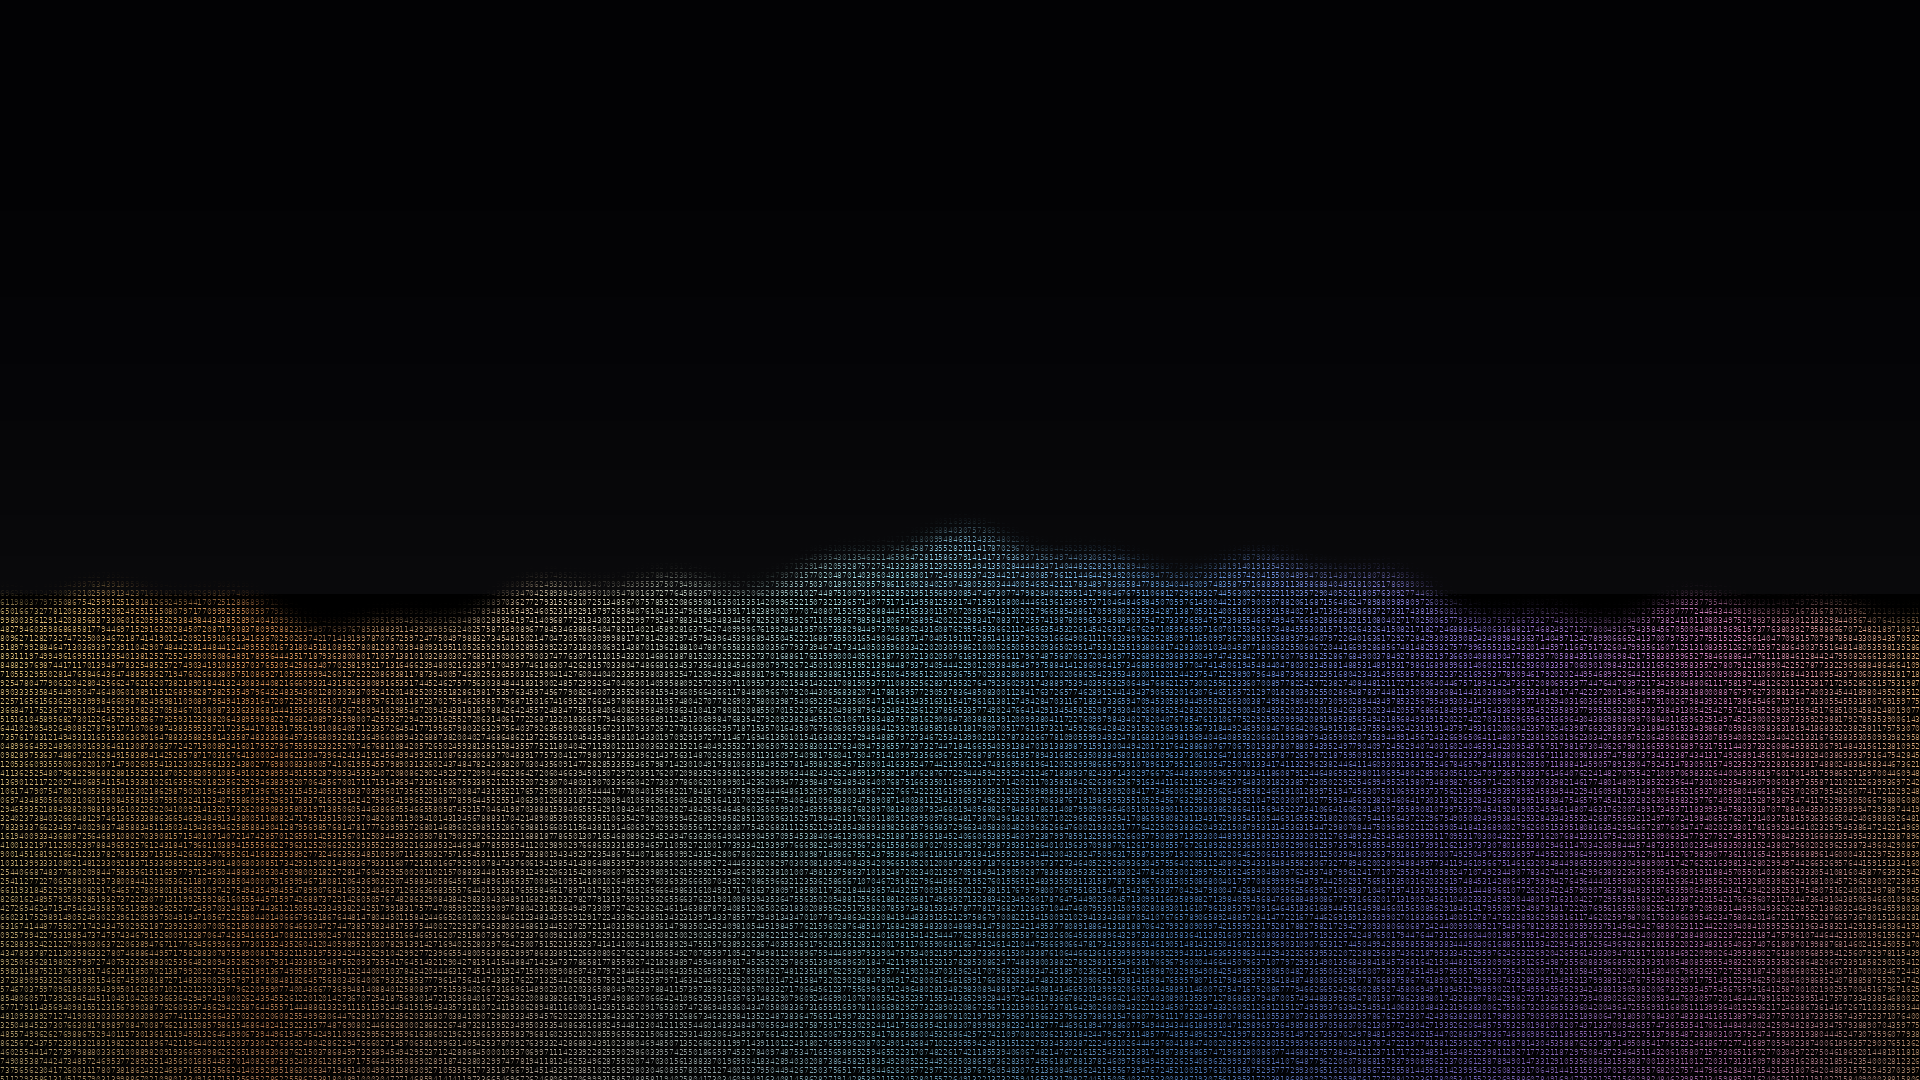
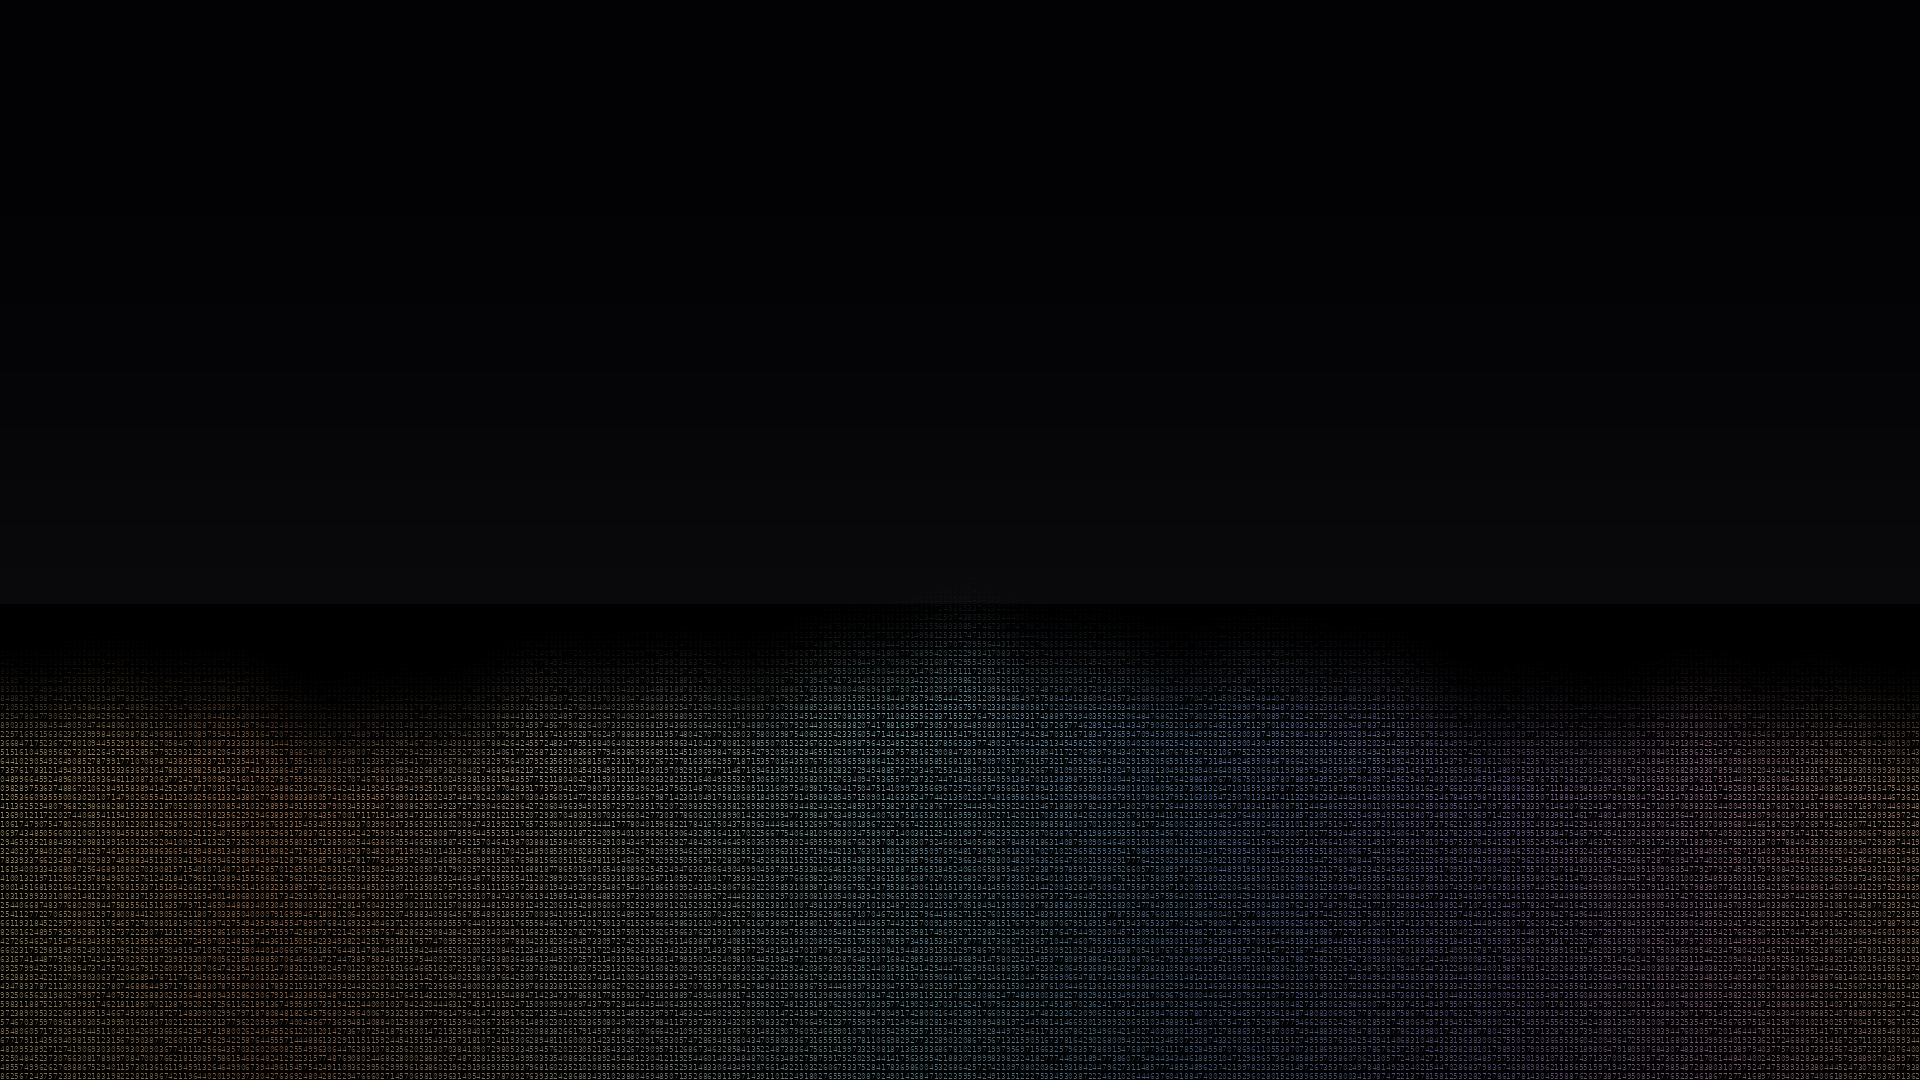
fix(theme): soften Kimi backdrop for readability
- Fade the digit field in from the wavy horizon instead of starting at full contrast.
- Reduce pattern brightness and saturation across the sidebar and results.
- Give empty states a local dark plate so copy stays readable over the backdrop.

Changed region(s): [[0.0, 0.4889, 1.0, 1.0]]

diff --git a/koyo/src/app/views/widgets.rs b/koyo/src/app/views/widgets.rs
@@ -359,23 +359,27 @@ pub(super) fn empty_state(
     detail: &'static str,
     palette: &Palette,
 ) -> impl IntoElement {
-    v_flex()
-        .flex_1()
-        .items_center()
-        .justify_center()
-        .gap_2()
-        .child(
-            gpui_kit::component::Icon::new(IconName::SquareTerminal)
-                .with_size(Size::Large)
-                .text_color(palette.muted),
-        )
-        .child(
-            div()
-                .text_sm()
-                .font_weight(FontWeight::SEMIBOLD)
-                .child(title),
-        )
-        .child(div().text_xs().text_color(palette.muted).child(detail))
+    v_flex().flex_1().items_center().justify_center().child(
+        v_flex()
+            .items_center()
+            .gap_2()
+            .px_8()
+            .py_6()
+            .rounded_lg()
+            .bg(palette.background.opacity(0.36))
+            .child(
+                gpui_kit::component::Icon::new(IconName::SquareTerminal)
+                    .with_size(Size::Large)
+                    .text_color(palette.muted),
+            )
+            .child(
+                div()
+                    .text_sm()
+                    .font_weight(FontWeight::SEMIBOLD)
+                    .child(title),
+            )
+            .child(div().text_xs().text_color(palette.muted).child(detail)),
+    )
 }
 
 pub(super) fn field_label(label: &'static str, palette: &Palette) -> impl IntoElement {
